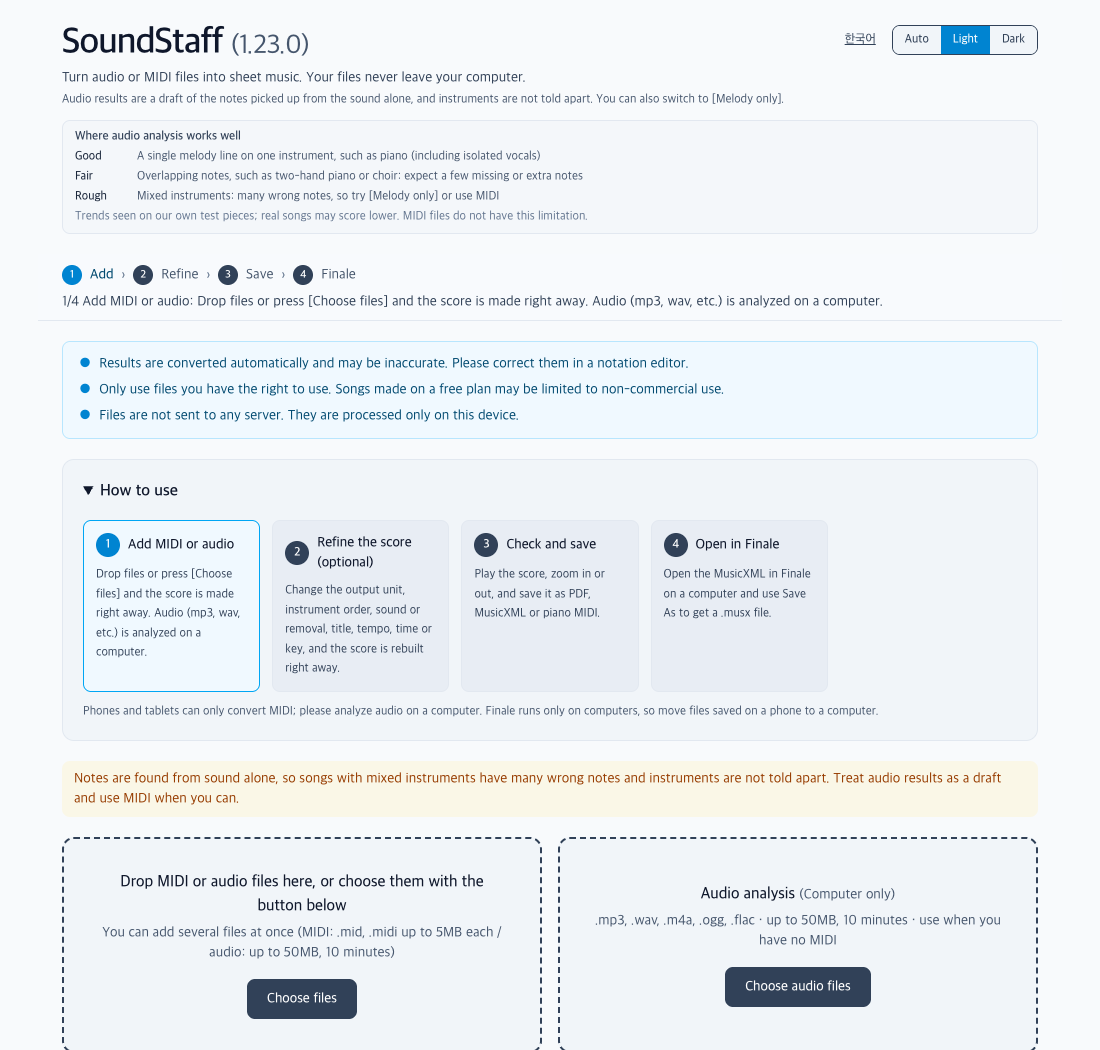
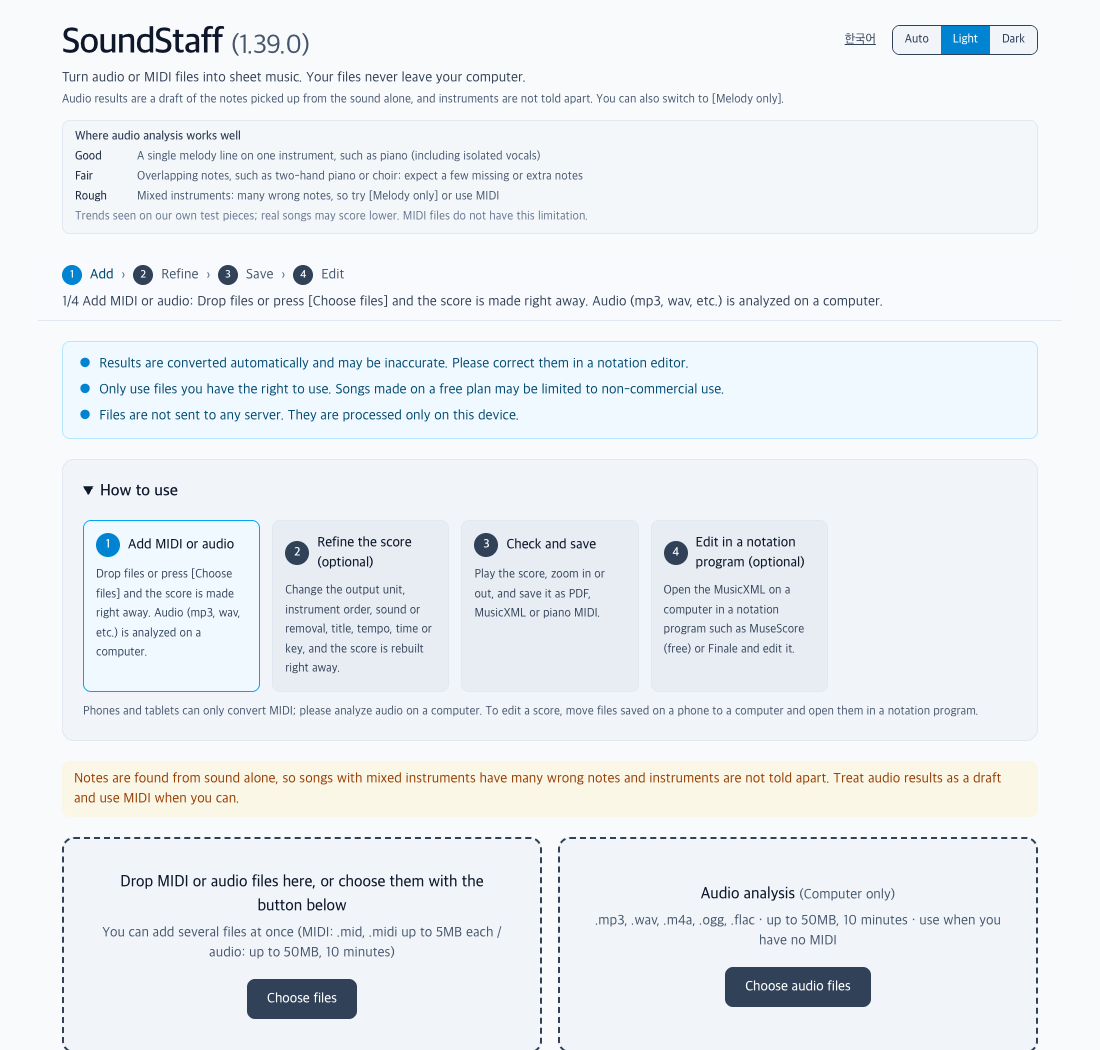
SoundStaff 영문 소개 페이지의 화면 캡처를 1.39.0 화면으로 교체

Changed region(s): [[0.5873, 0.4876, 0.7418, 0.64], [0.4327, 0.6705, 0.8655, 0.701], [0.2164, 0.0305, 0.2782, 0.061]]

diff --git a/en/insights/soundstaff.html b/en/insights/soundstaff.html
@@ -215,7 +215,7 @@
 
       <h3>3. Check and save</h3>
       <p>Play the score to hear it, zoom in and out to check it, and then save it as a PDF, MusicXML, or piano MIDI.</p>
-      <img src="../../images/soundstaff/en/03-score.png" alt="The score preview and the download buttons for PDF, MusicXML, and piano MIDI" width="1100" height="991" loading="lazy" style="max-width:100%;height:auto;border:1px solid #c8d1dc;border-radius:8px;display:block;margin:12px 0">
+      <img src="../../images/soundstaff/en/03-score.png" alt="The score preview and the download buttons for PDF, MusicXML, and piano MIDI" width="1100" height="1063" loading="lazy" style="max-width:100%;height:auto;border:1px solid #c8d1dc;border-radius:8px;display:block;margin:12px 0">
 
       <h3>4. Open it in Finale</h3>
       <p>On a PC, open the saved MusicXML file in Finale, then save it under a new name to get a Finale file (.musx). Finale only runs on a PC, so if you downloaded the file on a phone, move it to a PC first.</p>

diff --git a/docs/spec-v1.0.md b/docs/spec-v1.0.md
@@ -341,3 +341,4 @@ CLAUDE.md                        Claude 작업 규칙
 | v1.0 | 2026-11-25 08:07 | 영문 메인(`en/index.html`) SoundStaff 카드에서 "앱은 한국어만"이라는 문장을 뺐다(최종 수정일과 `sitemap.xml`의 `lastmod`도 갱신). (2026-11-25 08:07) |
 | v1.0 | 2026-11-25 08:10 | 영문 소개 페이지 `en/insights/soundstaff.html`의 화면 캡처 3장을 앱 영문 화면(1.23.0, 시험용 합창 MIDI)으로 바꾸고 `images/soundstaff/en/`에 두었다. "캡처는 한글 화면"이라는 문장은 뺐다. 한글 페이지의 캡처는 그대로다. **미확인:** 브라우저에서 본 페이지 모양. (2026-11-25 08:10) |
 | v1.0 | 2026-11-25 08:47 | 구글 Search Console의 "적절한 표준 태그가 포함된 대체 페이지"(18개) 조치. canonical·sitemap은 `.html` 주소를 가리키는데 서버는 그 주소를 확장자 없는 주소로 리디렉션했고, 없는 주소(`/api/...`)는 메인 화면을 200으로 돌려줬다. 주소 표기를 확장자 없는 형태로 통일하고 `404.html`을 추가했다. **미확인:** 푸시 후 운영 서버의 404 응답과 canonical, 3장의 GitHub Pages 설명과 달리 응답은 Cloudflare에서 오는 점. (2026-11-25 08:47) |
+| v1.0 | 2026-11-25 14:03 | 영문 소개 페이지 `en/insights/soundstaff.html`의 화면 캡처 3장을 앱 1.39.0 영문 화면(로컬에서 촬영, 시험용 합창 MIDI)으로 바꿨다. **미확인:** 앱 1.39.0은 아직 배포 전이고, 본문 4단계 제목 "Open it in Finale" 등 Finale 기준 설명은 그대로다. (2026-11-25 14:03) |
